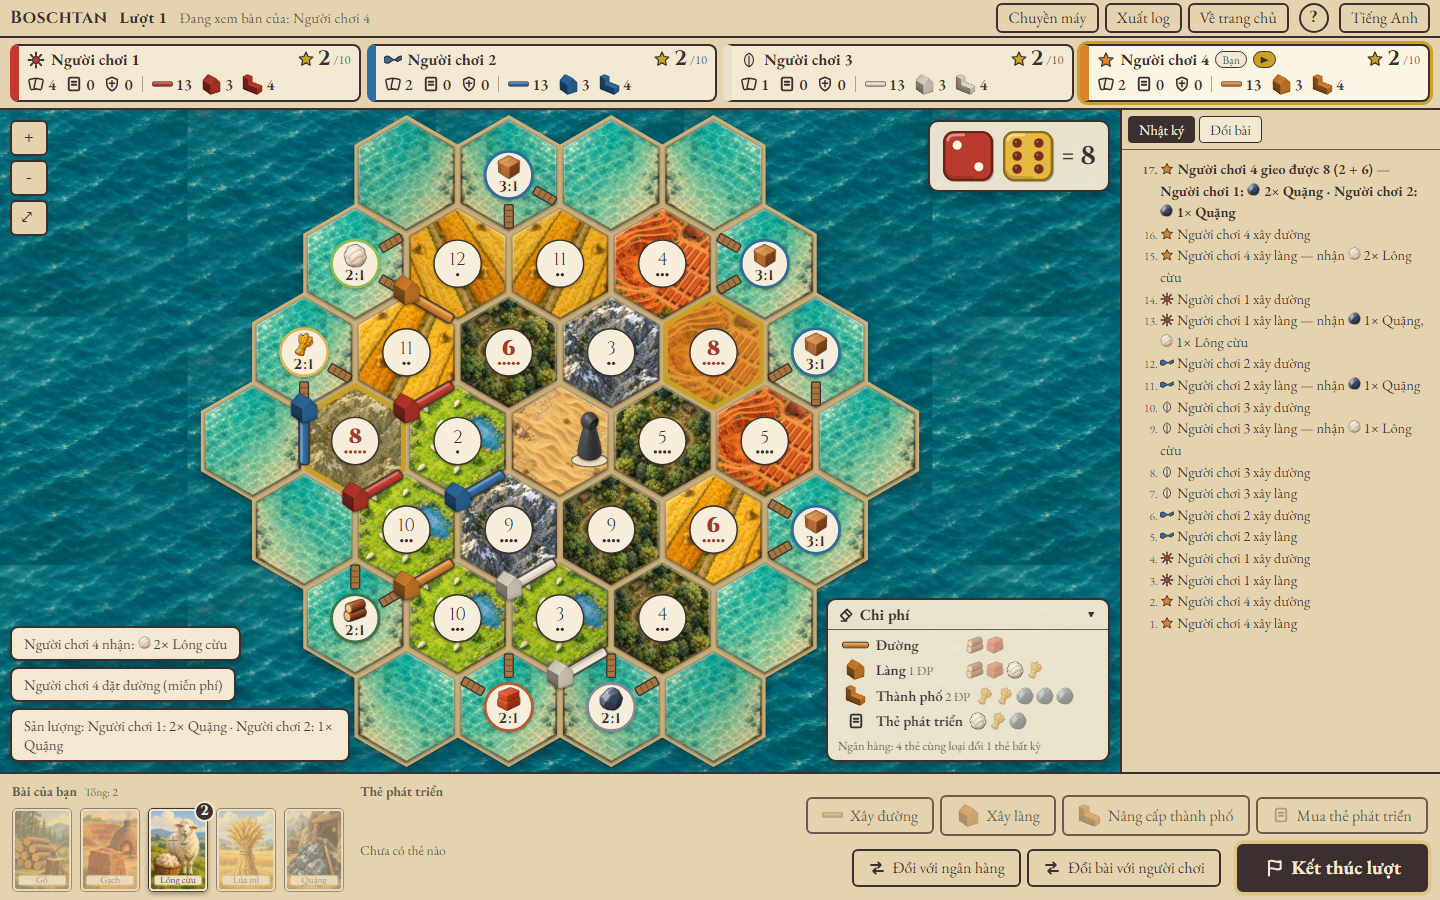
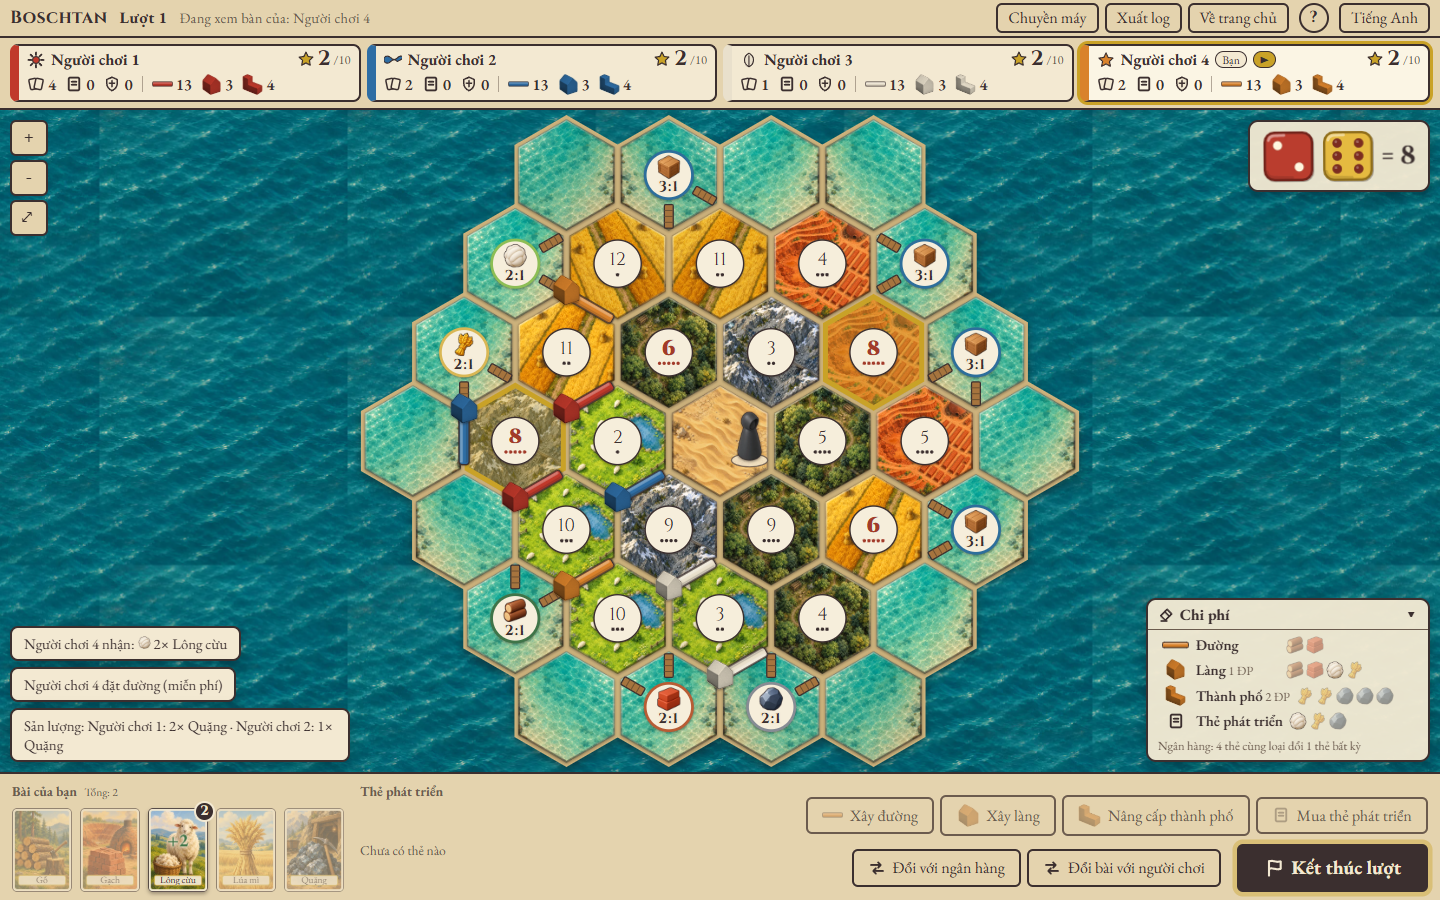
Remove the log side panel; Strongholds panel fills the side column with a track reference
- GameTable: no SHOW_LOG/SidePanel; the side column exists only in Strongholds games
- SidePanel.tsx and LogPanel.tsx deleted with their CSS and strings (trade dialog tabs kept)
- StrongholdsPanel: per track the level-3 perk, the level-4 capital and its holder, cards left
  in the deck; caravan holder. Panel uses flex 1 to fill the column
- e2e: drop the conditional log checks, assert no side column in base games and the track info
- QA screenshots regenerated after merging the home graphics with the enhancement branch

diff --git a/packages/client/src/strongholds/StrongholdsPanel.tsx b/packages/client/src/strongholds/StrongholdsPanel.tsx
@@ -181,6 +181,56 @@ export function StrongholdsPanel({ view, sh, legal, onStart }: PanelProps) {
           {/* The viewer's advance cards moved to the bottom-left of the board (AdvanceHand). */}
         </>
       )}
+
+      {/* PO 2026-11-19: the freed log space shows what each track gives: the level-3 perk, the
+          level-4 capital and who holds it, the cards left in its deck; then the caravan. */}
+      <div className="sh-group sh-tracks">
+        <span className="sh-label">{t('sh_tracks')}</span>
+        {TRACKS.map((tr) => {
+          const cap = sh.capitals[tr];
+          const myLevel = me ? sh.levels[me]?.[tr] ?? 0 : 0;
+          const fixed = !!cap && sh.levels[cap.owner]?.[tr] >= SH.maxLevel;
+          return (
+            <div key={tr} className="sh-trackinfo" data-track={tr}>
+              <div className="sh-trackinfo-head">
+                <ResourceIcon res={SH.trackCommodity[tr]} size={16} />
+                <b>{trackName(t, tr)}</b>
+                <span className="sh-muted sh-trackinfo-deck">{t('sh_deckLeft', { n: sh.deckCounts[tr] ?? 0 })}</span>
+              </div>
+              <p className={myLevel >= SH.perkLevel ? 'sh-trackinfo-row sh-reached' : 'sh-trackinfo-row'}>
+                <span className="sh-trackinfo-lvl">{t('sh_perkAt', { n: SH.perkLevel })}</span>{' '}
+                {t(`sh_perk_${tr}`)}
+                {myLevel >= SH.perkLevel && (
+                  <span className="sh-tick" title={t('sh_reached')} aria-label={t('sh_reached')}>
+                    ✓
+                  </span>
+                )}
+              </p>
+              <p className="sh-trackinfo-row">
+                <span className="sh-trackinfo-lvl">{t('sh_capitalAt', { n: SH.capitalLevel, vp: SH.capitalVP })}</span>:{' '}
+                {cap ? (
+                  <span className="sh-trackinfo-owner">
+                    <Emblem id={playerEmblem(cap.owner)} size={12} color={playerColor(cap.owner)} /> {name(cap.owner)}
+                    {fixed && <span className="sh-muted"> ({t('sh_capitalFixed')})</span>}
+                  </span>
+                ) : (
+                  <span className="sh-muted">{t('sh_capitalNone')}</span>
+                )}
+              </p>
+            </div>
+          );
+        })}
+        <p className="sh-raid-info">
+          {sh.caravan ? (
+            <>
+              <Emblem id={playerEmblem(sh.caravan.owner)} size={12} color={playerColor(sh.caravan.owner)} />{' '}
+              {t('sh_caravanHolder', { name: name(sh.caravan.owner), vp: SH.caravanVP })}
+            </>
+          ) : (
+            <span className="sh-muted">{t('sh_caravanNone')}</span>
+          )}
+        </p>
+      </div>
     </section>
   );
 }

diff --git a/packages/e2e/tests/strongholds.spec.ts b/packages/e2e/tests/strongholds.spec.ts
@@ -45,6 +45,17 @@ test('a mid-game position: wardens on the board and the staged chooser', async (
 
   await expect(page.locator('.sh-panel')).toBeVisible();
   expect(await page.locator('.sh-warden').count()).toBeGreaterThanOrEqual(2);
+  // The panel fills the side column (the log was removed) and ends with the track reference:
+  // perk, capital and deck count for each of the 3 tracks, then the caravan.
+  await expect(page.locator('.sh-panel .sh-trackinfo')).toHaveCount(3);
+  await expect(page.locator('.sh-panel .sh-trackinfo').first()).toContainText('Cấp 3');
+  await expect(page.locator('.sh-panel .sh-trackinfo').first()).toContainText('Kinh đô');
+  const fill = await page.evaluate(() => {
+    const col = document.querySelector('.sidecol')!.getBoundingClientRect();
+    const panel = document.querySelector('.sh-panel')!.getBoundingClientRect();
+    return { col: col.height, panel: panel.height };
+  });
+  expect(fill.panel, `panel ${fill.panel}px of column ${fill.col}px`).toBeGreaterThanOrEqual(fill.col - 4);
   await clearHover(page);
   await page.screenshot({ path: shotPath('strongholds-midgame.png', testInfo.project.name), fullPage: true });
 
@@ -70,7 +81,6 @@ test('a mid-game position: wardens on the board and the staged chooser', async (
   // Start any enabled expansion action: the chooser must ask for a spot on the board or show options.
   const button = page.locator('.sh-panel button[data-sh]:not([disabled]), .sh-panel button[data-improve]:not([disabled])').first();
   if ((await button.count()) > 0) {
-    const before = await page.locator('.log-line, .log li').count();
     await button.click();
     const asking = page.locator('.sh-pickbar, .sh-options');
     const asked = await asking.first().isVisible().catch(() => false);
@@ -81,9 +91,6 @@ test('a mid-game position: wardens on the board and the staged chooser', async (
       if ((await hit.count()) > 0) await hit.click();
       else await page.locator('.sh-options button').first().click();
     }
-    await expect
-      .poll(async () => (await page.locator('.log-line, .log li').count()) >= before)
-      .toBeTruthy();
   }
   expect(errors()).toEqual([]);
 });

diff --git a/packages/e2e/tests/ux-table.spec.ts b/packages/e2e/tests/ux-table.spec.ts
@@ -113,29 +113,14 @@ test('the board fills the board area', async ({ page }) => {
   expect(errors()).toEqual([]);
 });
 
-test('6 players: six player cards and the log fit without page scroll', async ({ page }) => {
+test('6 players: six player cards fit without page scroll, no log column', async ({ page }) => {
   const errors = captureErrors(page);
   await startGame(page, '6', 'e2e-large');
   await expect(page.locator('.seats .seat')).toHaveCount(6);
-  const m = await page.evaluate(() => {
-    // The log panel is hidden for now (GameTable SHOW_LOG): without it only the page fit is checked.
-    const body = document.querySelector('.sidepanel-body')?.getBoundingClientRect() ?? null;
-    const seats = Array.from(document.querySelectorAll('.seats .seat')).map((s) => s.getBoundingClientRect());
-    return {
-      pageFits: document.documentElement.scrollHeight <= window.innerHeight + 1,
-      hasLog: body !== null,
-      logHeight: body?.height ?? 0,
-      lastSeatBottom: Math.max(...seats.map((r) => r.bottom)),
-      bodyTop: body?.top ?? 0,
-    };
-  });
-  expect(m.pageFits, 'no page scroll').toBe(true);
-  if (!m.hasLog) {
-    expect(errors()).toEqual([]);
-    return;
-  }
-  expect(m.lastSeatBottom, 'player cards end above the log').toBeLessThanOrEqual(m.bodyTop);
-  expect(m.logHeight, `log height ${m.logHeight}`).toBeGreaterThanOrEqual(test.info().project.name === 'tablet' ? 60 : 160);
+  // PO 2026-11-19: the log side panel is removed; a base game has no side column at all.
+  await expect(page.locator('.sidecol')).toHaveCount(0);
+  const pageFits = await page.evaluate(() => document.documentElement.scrollHeight <= window.innerHeight + 1);
+  expect(pageFits, 'no page scroll').toBe(true);
   expect(errors()).toEqual([]);
 });
 

diff --git a/packages/client/src/strongholds/i18n.ts b/packages/client/src/strongholds/i18n.ts
@@ -101,6 +101,18 @@ export const shVi: Record<string, string> = {
   sh_toppled: 'Thành phố bị cướp phá, phải xây lại trước',
   sh_caravan: 'Thương đoàn',
   sh_pickCards: 'Chọn đúng số thẻ:',
+  sh_tracks: 'Tuyến cải tiến',
+  sh_deckLeft: 'còn {n} thẻ',
+  sh_perkAt: 'Cấp {n}',
+  sh_perk_commerce: 'đổi hàng hóa 2:1',
+  sh_perk_council: 'thăng vệ binh lên hạng 3',
+  sh_perk_learning: 'không nhận được gì khi gieo thì lấy 1 tài nguyên',
+  sh_capitalAt: 'Cấp {n} · Kinh đô +{vp} ĐP',
+  sh_capitalNone: 'chưa ai giữ',
+  sh_capitalFixed: 'cố định',
+  sh_reached: 'Bạn đã đạt',
+  sh_caravanHolder: 'Thương đoàn: {name} (+{vp} ĐP)',
+  sh_caravanNone: 'Thương đoàn: chưa ai nắm',
 
   shact_rampart: 'Tường thành',
   shact_recruit: 'Tuyển vệ binh',
@@ -330,6 +342,18 @@ export const shEn: Record<string, string> = {
   sh_toppled: 'Pillaged city, rebuild it first',
   sh_caravan: 'Caravan',
   sh_pickCards: 'Choose exactly this many cards:',
+  sh_tracks: 'Improvement tracks',
+  sh_deckLeft: '{n} cards left',
+  sh_perkAt: 'Level {n}',
+  sh_perk_commerce: 'trade commodities 2:1',
+  sh_perk_council: 'promote wardens to rank 3',
+  sh_perk_learning: 'nothing produced on a roll: take 1 resource',
+  sh_capitalAt: 'Level {n} · capital +{vp} VP',
+  sh_capitalNone: 'unclaimed',
+  sh_capitalFixed: 'permanent',
+  sh_reached: 'You have it',
+  sh_caravanHolder: 'Caravan: {name} (+{vp} VP)',
+  sh_caravanNone: 'Caravan: nobody',
 
   shact_rampart: 'Rampart',
   shact_recruit: 'Recruit',

diff --git a/packages/client/src/strongholds/strongholds.css b/packages/client/src/strongholds/strongholds.css
@@ -9,13 +9,36 @@
   border: 2px solid var(--ink);
   border-radius: 6px;
   font-size: 13px;
-  /* The side column has a fixed height: the panel scrolls inside it (the log under it is hidden
-     for now, so it may use the whole column). */
-  flex: 0 1 auto;
-  max-height: 100%;
+  /* The side column has a fixed height and holds only this panel (the log was removed, PO
+     2026-11-19): it fills the whole column and scrolls inside it. */
+  flex: 1 1 auto;
   min-height: 150px;
   overflow-y: auto;
 }
+
+/* Track reference (perk, capital, deck) in the space the log used to take. Deck colours as on
+   the advance cards (.sh-reveal-*). */
+.sh-tracks { gap: 6px; }
+.sh-trackinfo {
+  display: flex;
+  flex-direction: column;
+  gap: 2px;
+  padding: 5px 8px 6px;
+  background: var(--parchment);
+  border: 1px solid color-mix(in srgb, var(--ink) 35%, transparent);
+  border-left: 4px solid var(--ink-soft);
+  border-radius: 4px;
+}
+.sh-trackinfo[data-track='commerce'] { border-left-color: var(--gold); }
+.sh-trackinfo[data-track='council'] { border-left-color: var(--sea); }
+.sh-trackinfo[data-track='learning'] { border-left-color: var(--forest); }
+.sh-trackinfo-head { display: flex; align-items: center; gap: 6px; }
+.sh-trackinfo-deck { margin-left: auto; font-size: 12px; }
+.sh-trackinfo-row { margin: 0; font-size: 12.5px; line-height: 1.35; }
+.sh-trackinfo-lvl { font-weight: 700; }
+.sh-trackinfo-owner { font-weight: 600; white-space: nowrap; }
+.sh-reached { color: #2f5d3a; }
+.sh-tick { margin-left: 4px; font-weight: 700; }
 .sh-head {
   margin: 0;
   font-size: 16px;

diff --git a/packages/e2e/tests/ui-smoke.spec.ts b/packages/e2e/tests/ui-smoke.spec.ts
@@ -74,15 +74,12 @@ test('4-player hot-seat game seed e2e-1: board, setup, roll, end turn, trade pan
   // Roll dice.
   await actionButton(page, VI.rollText).click();
 
-  // Log shows Vietnamese, human-readable lines (no raw ids, no English fallback). The log panel
-  // is hidden for now (GameTable SHOW_LOG): checked only when it is shown.
-  const logLines = page.locator('.log-list li');
-  const logShown = (await page.locator('.log-list').count()) > 0;
-  if (logShown) await expect(logLines.first()).toBeVisible();
-  const logText = logShown ? await logLines.first().textContent() : 'gieo được 0';
-  expect(logText, `log line should be Vietnamese: ${logText}`).toMatch(/gieo xúc xắc|gieo được \d+/);
-  expect(logText, 'log must not be the English fallback').not.toMatch(/Roll dice|End turn/);
-  expect(logText, 'log must not contain raw board ids').not.toMatch(/[veh]:-?\d+,\d+|[NWS][EW]?\b/);
+  // PO 2026-11-19: the log side panel is gone (no side column in a base game). Event toasts are
+  // human-readable: no English fallback, no raw board ids.
+  await expect(page.locator('.sidecol')).toHaveCount(0);
+  const toastText = (await page.locator('.toast-stack').textContent()) ?? '';
+  expect(toastText, 'toasts must not be the English fallback').not.toMatch(/Roll dice|End turn/);
+  expect(toastText, 'toasts must not contain raw board ids').not.toMatch(/[veh]:-?\d+,\d+/);
 
   await clearHover(page);
   await page.screenshot({ path: shotPath('main-turn.png', project), fullPage: true });

diff --git a/packages/client/src/table/GameTable.tsx b/packages/client/src/table/GameTable.tsx
@@ -27,13 +27,11 @@ import { CostCard } from './CostCard';
 import { HelpDialog } from './HelpDialog';
 import { HandPanel } from './HandPanel';
 import { ActionBar, type Pending } from './ActionBar';
-import { SidePanel } from './SidePanel';
 import { describeEvent } from './describe';
 import { DiscardDialog, StealDialog, TradeDialog, CardDialog, type TradeTab, type PickCard } from '../dialogs';
 
-/** PO 2026-11-18: the log side panel (Nhật ký / Đổi bài tabs) is hidden for now. Set to true to
- * bring it back; LogPanel and SidePanel are left untouched. Trade status shows in the trade dialog. */
-const SHOW_LOG = false;
+// PO 2026-11-19: the log side panel (Nhật ký / Đổi bài tabs) is removed; events still show as
+// toasts and trade status in the trade dialog. The side column exists only for the Strongholds panel.
 
 export interface GameTableProps {
   view: PlayerView;
@@ -420,10 +418,9 @@ export function GameTable({ view, legal, onAction, events, validate, errors, onE
             </div>
           )}
         </div>
-        {(sh || SHOW_LOG) && (
+        {sh && (
           <aside className="sidecol">
-            {sh && <StrongholdsPanel view={view} sh={sh} legal={legal} onStart={startChoice} />}
-            {SHOW_LOG && <SidePanel view={view} />}
+            <StrongholdsPanel view={view} sh={sh} legal={legal} onStart={startChoice} />
           </aside>
         )}
       </div>

diff --git a/packages/client/src/table/table.css b/packages/client/src/table/table.css
@@ -562,14 +562,7 @@
   border-radius: 3px;
 }
 
-/* ---------- Side panel (log / trade) ---------- */
-.sidepanel {
-  flex: 1;
-  display: flex;
-  flex-direction: column;
-  min-height: 0;
-}
-
+/* ---------- Tabs (trade dialog) ---------- */
 .tabs {
   display: flex;
   gap: 4px;
@@ -590,38 +583,6 @@
 .tab[aria-selected='true'] {
   background: var(--ink);
   color: var(--parchment);
-}
-
-.sidepanel-body {
-  flex: 1;
-  overflow-y: auto;
-  padding: 8px;
-  min-height: 0;
-}
-
-.logpanel .log-list {
-  margin: 0;
-  padding-left: 30px;
-  font-size: 0.9rem;
-  line-height: 1.5;
-}
-
-.logpanel .log-list li::marker {
-  color: var(--ink-soft);
-  font-size: 0.8em;
-}
-
-.logpanel .log-list .emblem {
-  vertical-align: -2px;
-}
-
-.log-new {
-  font-weight: 700;
-}
-
-.trade-status p,
-.trade-status ul {
-  margin: 4px 0;
 }
 
 .trade-responses {

diff --git a/packages/client/src/i18n/vi.ts b/packages/client/src/i18n/vi.ts
@@ -135,21 +135,15 @@ export const vi: Record<string, string> = {
   hand_total: 'Tổng: {n}',
 
   // Side panel
-  side_log: 'Nhật ký',
-  side_trade: 'Đổi bài',
   side_costs: 'Chi phí',
   side_costsNote: 'Chi phí của bộ luật cơ bản (đổi theo các bộ luật mở rộng).',
   side_costsRoad: 'Đường',
   side_costsSettlement: 'Làng',
   side_costsCity: 'Thành phố',
   side_costsCard: 'Thẻ phát triển',
-  side_noTrade: 'Không có đề nghị đổi bài nào đang mở.',
-  side_tradeFrom: '{name} đề nghị:',
-  side_tradeResponses: 'Phản hồi:',
   side_pending: 'Chưa trả lời',
   side_accepted: 'Đã chấp nhận',
   side_declined: 'Đã từ chối',
-  log_empty: 'Chưa có nước đi nào.',
 
   // Dialogs
   dlg_close: 'Đóng',

diff --git a/packages/client/src/i18n/en.ts b/packages/client/src/i18n/en.ts
@@ -123,21 +123,15 @@ export const en: Record<string, string> = {
   hand_noCards: 'No cards yet',
   hand_total: 'Total: {n}',
 
-  side_log: 'Log',
-  side_trade: 'Trade',
   side_costs: 'Costs',
   side_costsNote: 'Base ruleset costs (extensions may change them).',
   side_costsRoad: 'Road',
   side_costsSettlement: 'Settlement',
   side_costsCity: 'City',
   side_costsCard: 'Development card',
-  side_noTrade: 'No open trade offer.',
-  side_tradeFrom: '{name} offers:',
-  side_tradeResponses: 'Responses:',
   side_pending: 'No answer yet',
   side_accepted: 'Accepted',
   side_declined: 'Declined',
-  log_empty: 'No actions yet.',
 
   dlg_close: 'Close',
   dlg_cancel: 'Cancel',
